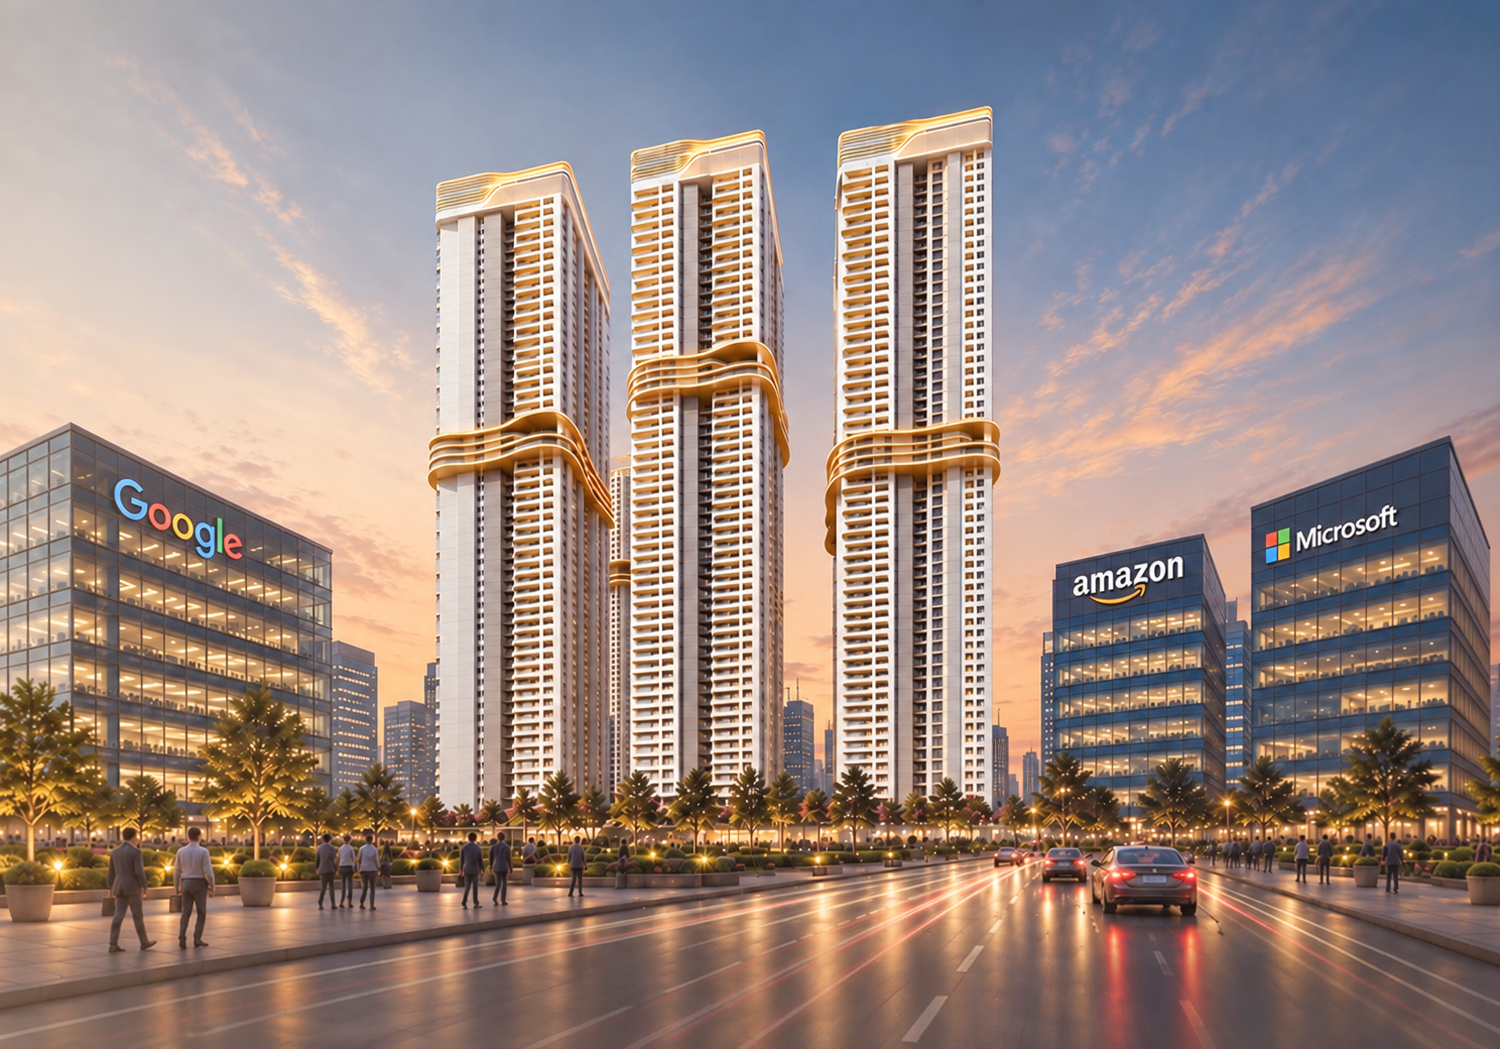
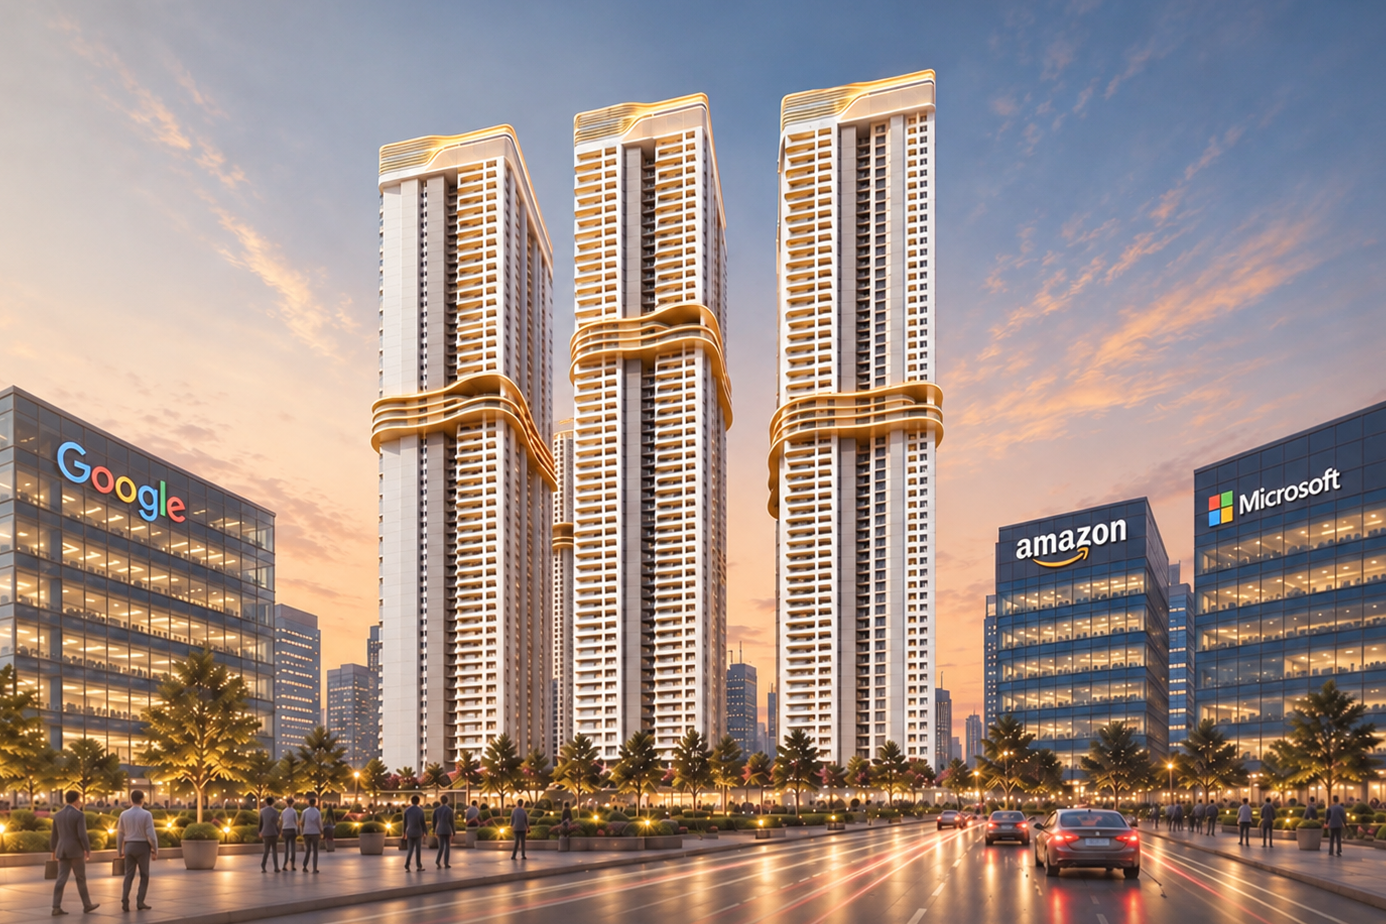
updated stilt level image

diff --git a/src/data/projectData.ts b/src/data/projectData.ts
@@ -5,6 +5,7 @@ import tower5Plan from "@/assets/cinq/tower-5-plan.webp";
 import amenitySky from "@/assets/cinq/amenitySky.jpeg";
 import amenityStilt from "@/assets/cinq/amenityStilt.jpeg";
 import amenityOasis from "@/assets/cinq/oasis.jpeg";
+import { images } from "@/assets/cinq";
 
 export const navigation = [
   "Overview",
@@ -50,122 +51,6 @@ export const highlights = [
   ],
 ];
 
-// export const amenities = [
-//   ["Teen Lounge", "Dedicated space for teenagers"],
-//   ["Kids Lounge", "Engaging spaces for children"],
-//   ["Business Lounge", "A dedicated business-focused lounge"],
-//   ["Senior Citizen Lounge", "Comfortable community space"],
-//   ["Fitness Haven", "Dedicated fitness and activity space"],
-//   ["Tennis Court", "Outdoor tennis facility"],
-//   ["Basketball Court", "Outdoor basketball facility"],
-//   ["Pet Garden", "Dedicated space for pets"],
-//   ["Jogging Walkway", "Designed for everyday walks and jogging"],
-//   ["Butterfly Walkway", "Landscape-led walking experience"],
-//   ["Sensory Walkway", "Immersive landscaped walkway"],
-//   ["Banquet Hall", "Dedicated event and celebration space"],
-//   ["Crèche", "Dedicated childcare facility"],
-//   ["Skating Rink", "Recreational skating facility"],
-//   ["Rock Climbing Wall", "Adventure-focused activity"],
-//   ["Nature Trails", "Green walking and exploration spaces"],
-//   ["Badminton Court", "Indoor sports facility"],
-//   ["Squash Court", "Dedicated squash facility"],
-//   ["Mini Theatre", "Private screening experience"],
-//   ["Co-working Space", "Work-focused shared space"],
-//   ["Bowling Alley", "Indoor entertainment facility"],
-//   ["Guest Rooms", "Five guest rooms"],
-//   ["Gym HIIT", "High-intensity fitness facility"],
-//   ["Jacuzzi", "Relaxation and wellness facility"],
-//   ["Salon & Spa", "Dedicated beauty and wellness facilities"],
-//   ["Infinity Pool", "Elevated pool experience"],
-//   ["Party Deck", "Dedicated social and celebration space"],
-//   ["Yoga Deck", "Dedicated yoga and wellness space"],
-//   ["Pickle Ball", "Dedicated pickleball facility"],
-//   ["Skyview Fitness", "Fitness experience at the sky level"],
-// ];
-
-// export const amenities = [
-//   {
-//     id: "stilt",
-//     number: "01",
-//     label: "STILT LEVEL",
-//     eyebrow: "Indoor & Outdoor Activities",
-//     title: "A Hub for Every Pursuit",
-//     description:
-//       "A vibrant landscape of indoor and outdoor experiences designed for recreation, connection and everyday discovery.",
-//     image: amenityStilt,
-//     items: [
-//       "Teen Lounge",
-//       "Kids Lounge",
-//       "Multipurpose Lounge",
-//       "Business Lounge",
-//       "Senior Citizen Lounge",
-//       "Water Feature with Seating Area",
-//       "Jogging Walkway",
-//       "Butterfly Walkway",
-//       "Sensory Walkway",
-//       "Banquet Hall",
-//       "Pre-function Area",
-//       "Crèche",
-//       "Tennis Court",
-//       "Skating Rink",
-//       "Fitness Haven",
-//       "Basketball Court",
-//       "Practice Net",
-//       "Rock Climbing Wall",
-//       "Aerobic Plaza",
-//       "Nature Trails",
-//       "Pet Garden",
-//     ],
-//   },
-
-//   {
-//     id: "oasis",
-//     number: "02",
-//     label: "THE OASIS",
-//     eyebrow: "Private Amenities in Every Tower",
-//     title: "A World Within Your World",
-//     description:
-//       "A collection of private experiences woven into every tower, bringing leisure, play and relaxation closer to home.",
-//     image: amenityOasis,
-//     items: [
-//       "Pool",
-//       "Jacuzzi",
-//       "Walking Track",
-//       "Party Area",
-//       "Viewing Deck",
-//       "Forest Nook",
-//       "Kids Pool",
-//       "Adventure Play Area",
-//       "Kids Tunnel",
-//       "Jumping Berm",
-//       "Climbing Cargo Net",
-//       "Trampoline",
-//       "Spring Rider",
-//       "Ball Pit",
-//     ],
-//   },
-
-//   {
-//     id: "sky",
-//     number: "03",
-//     label: "SKY LEVEL",
-//     eyebrow: "Breathtaking Views & Amenities",
-//     title: "Life Above the City",
-//     description:
-//       "Elevated spaces designed around movement, wellness, social moments and uninterrupted views.",
-//     image: amenitySky,
-//     items: [
-//       "Seating Area",
-//       "Yoga Deck",
-//       "Pickle Ball",
-//       "Skyview Fitness",
-//       "Party Deck",
-//       "Juice Bar",
-//       "Rooftop Seating",
-//     ],
-//   },
-// ];
-
 export const amenityLevels = [
   {
     id: "stilt",
@@ -173,7 +58,7 @@ export const amenityLevels = [
     label: "STILT LEVEL",
     subtitle: "Hub for Indoor & Outdoor Activities",
     title: "A Vibrant Landscape of Everyday Experiences",
-    image: amenityStilt,
+    image: images.architecture,
     amenities: [
       "Teen Lounge",
       "Kids Lounge",
